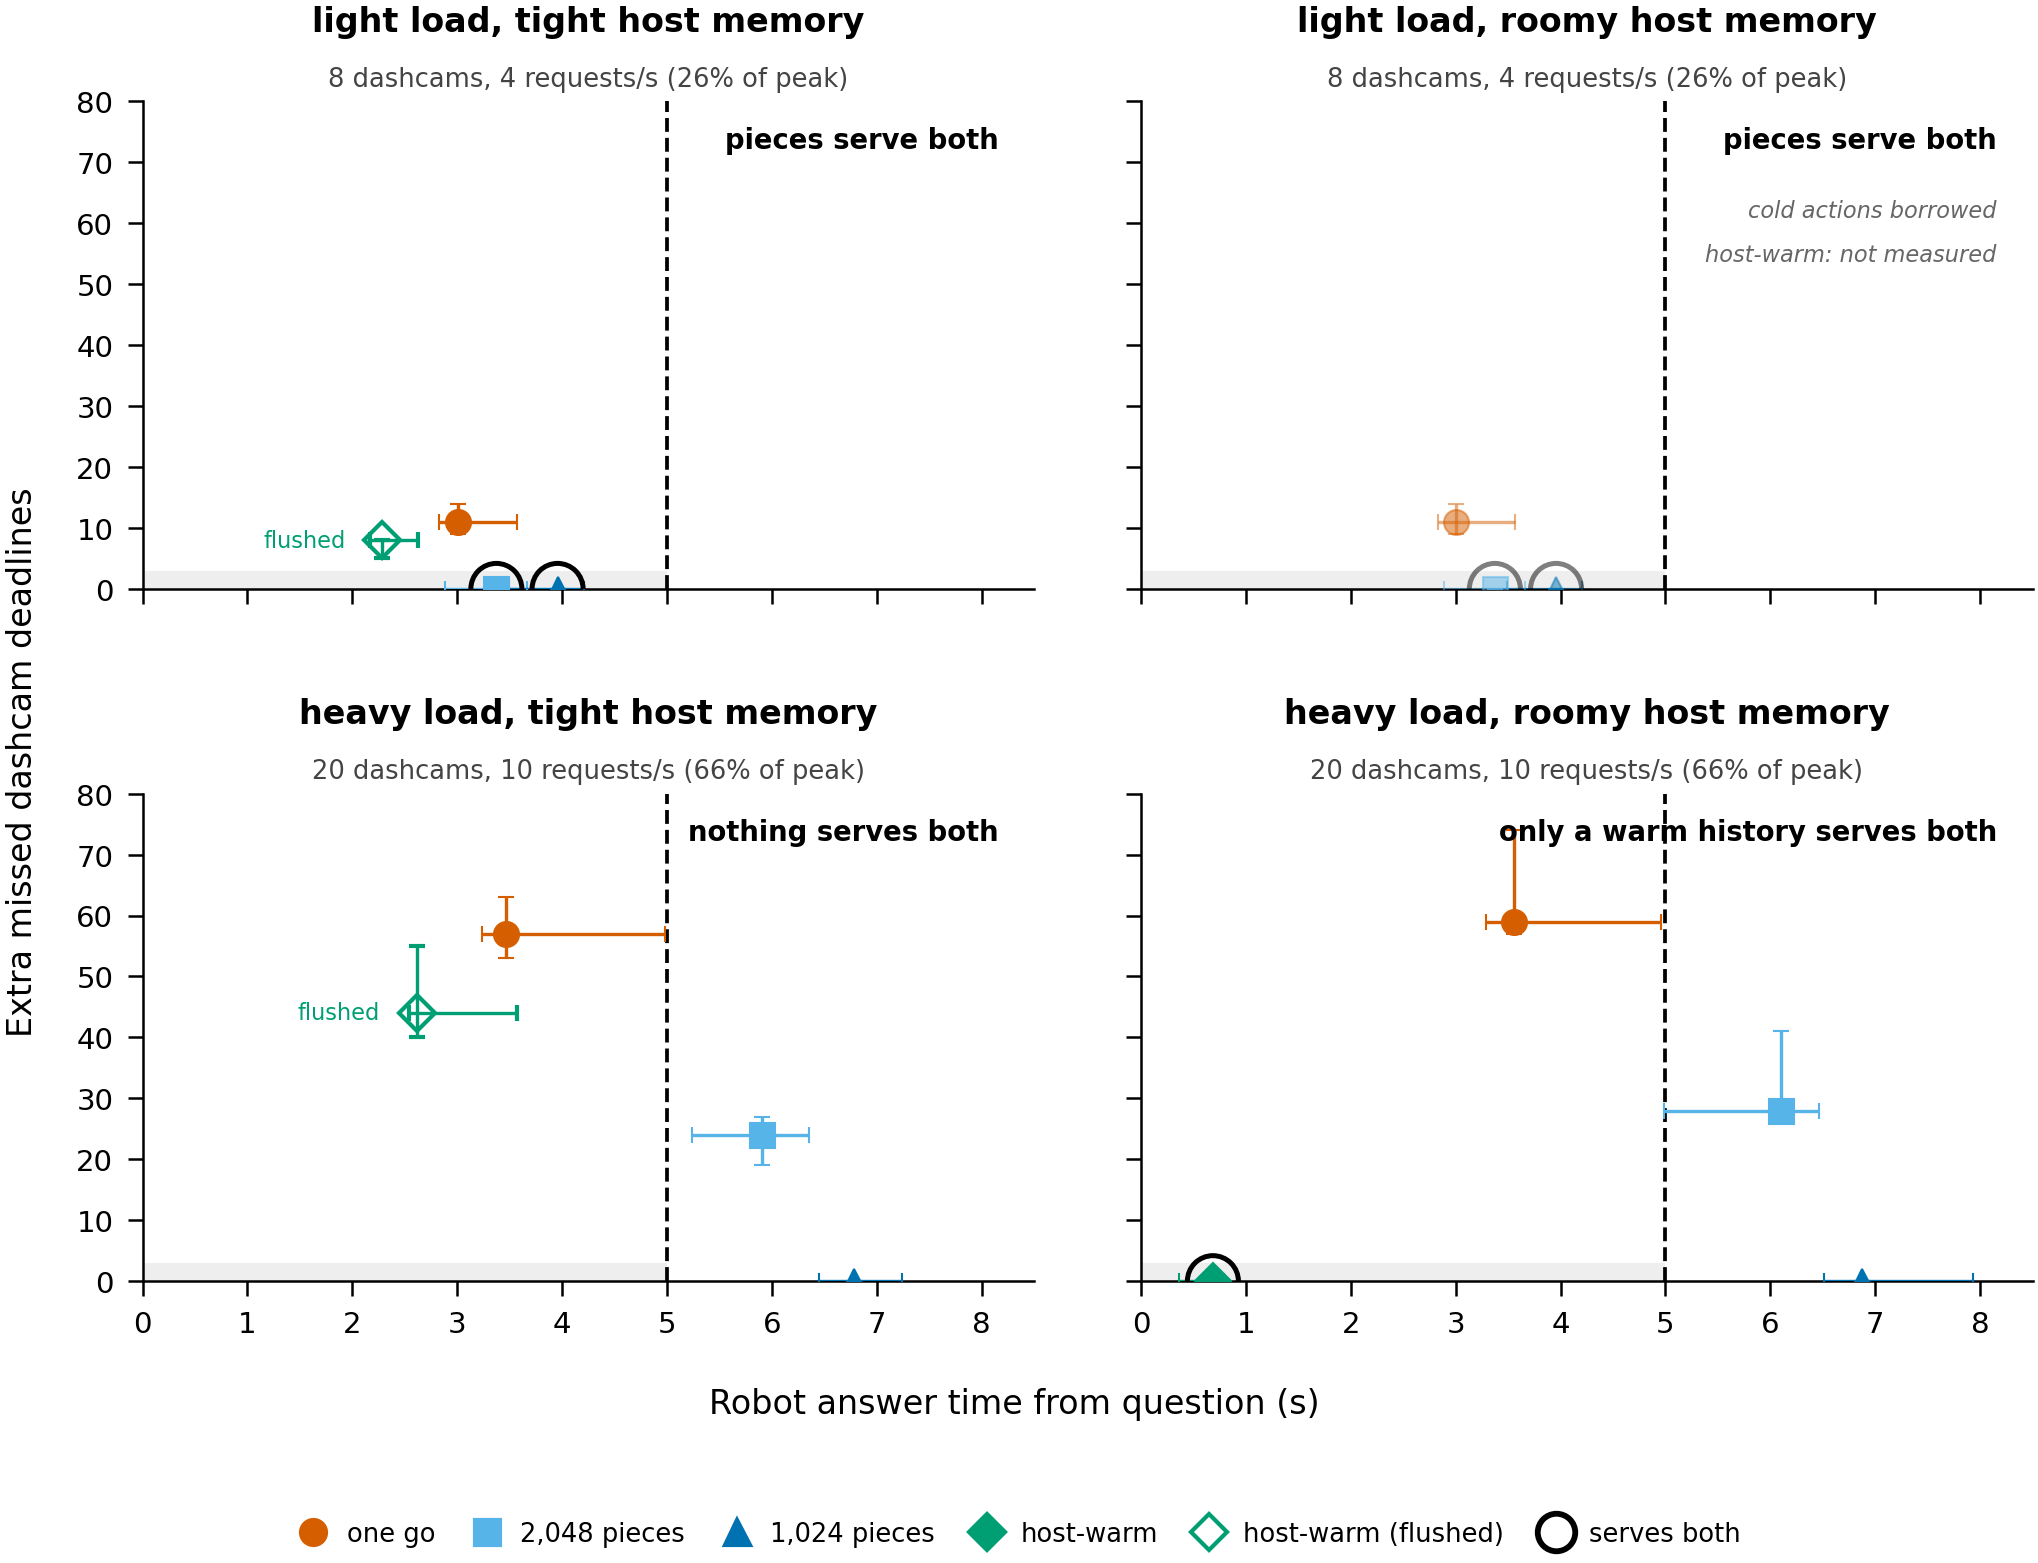
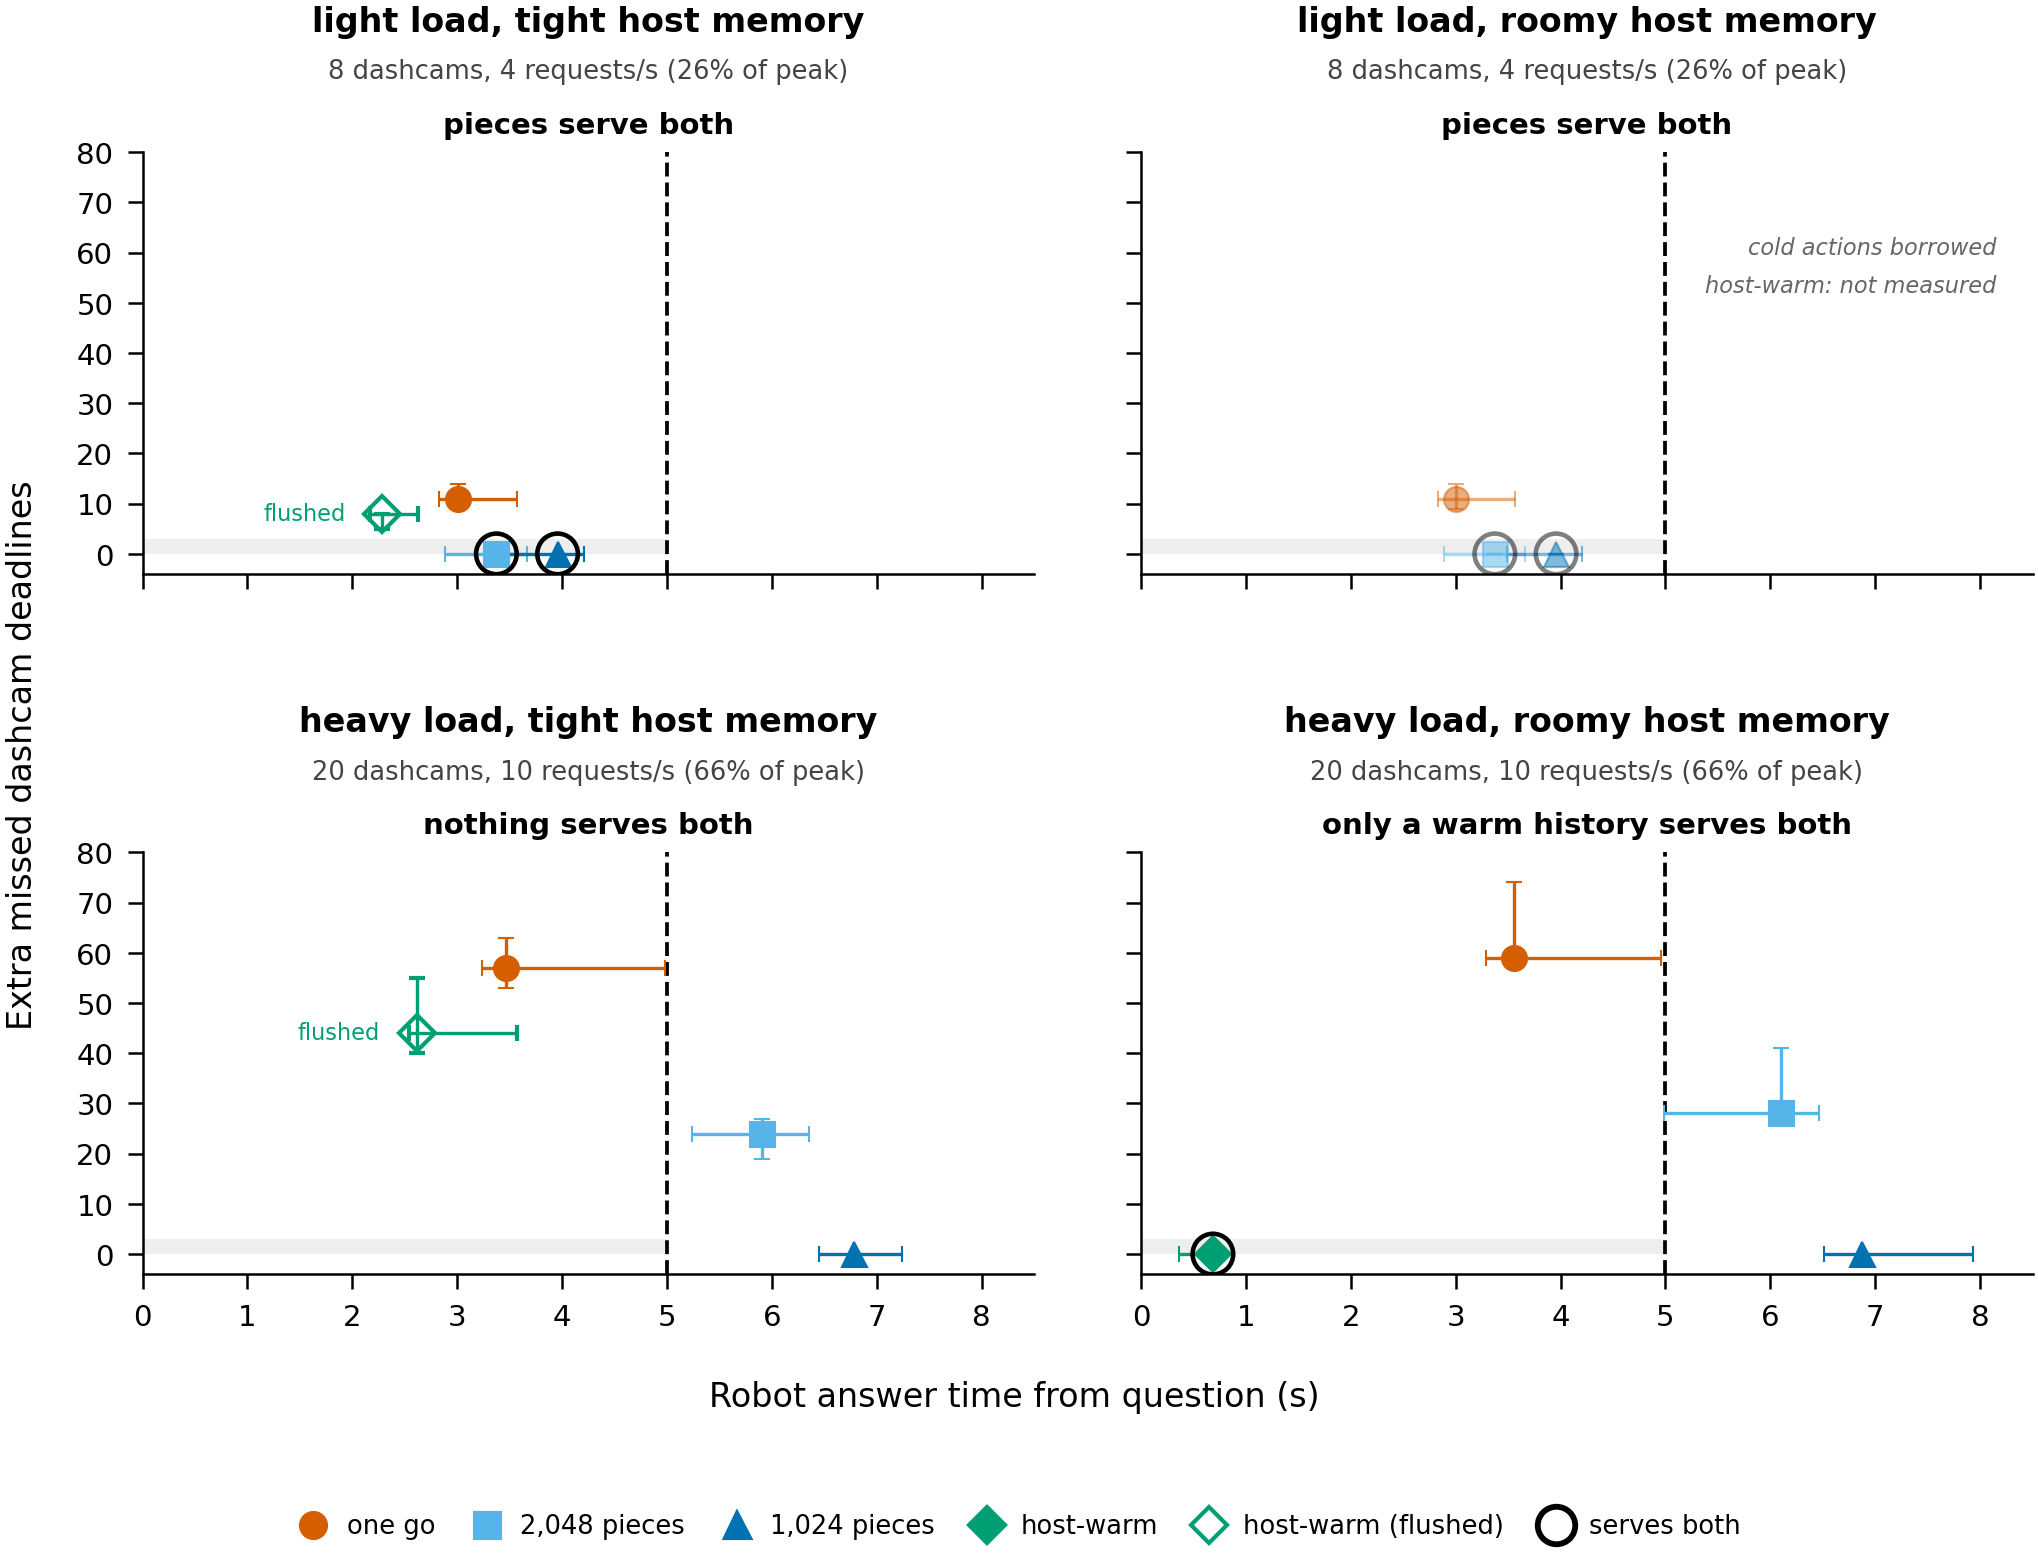
StudyFIG1-motivation

diff --git a/plots/motivation/figM7b_grid.py b/plots/motivation/figM7b_grid.py
@@ -43,7 +43,7 @@ CELLS = {
     "heavy_roomy": dict(title="heavy load, roomy host memory", sub="20 dashcams, 10 requests/s (66% of peak)",
                         verdict="only a warm history serves both"),
 }
-XLO, XHI, YLO, YHI = 0.0, 8.5, 0.0, 80.0
+XLO, XHI, YLO, YHI = 0.0, 8.5, -4.0, 80.0
 TARGET = 5.0        # robot deadline, D71
 EXPECT = {k: v["verdict"] for k, v in CELLS.items()}
 
@@ -105,18 +105,15 @@ def draw_panel(ax, cell, show_region_text=False):
                     fmt=mk, color=c, mfc=mfc, mec=c, ecolor=c,
                     elinewidth=0.8, capsize=2, markersize=6,
                     markeredgewidth=1.0 if hollow else 0.5, alpha=alpha, zorder=3)
-        # bold ring for an action in the good region
+        # bold ring for an action in the good region (small, so adjacent rings do not touch)
         if y == 0 and x < TARGET:
-            ax.scatter([x], [y], s=150, facecolors="none", edgecolors="black",
-                       linewidths=1.2, zorder=5, alpha=alpha)
+            ax.scatter([x], [y], s=95, facecolors="none", edgecolors="black",
+                       linewidths=1.1, zorder=5, alpha=alpha)
         # label a flushed host-warm point directly, to its left (hollow => answered cold)
         if hollow:
             ax.text(x - 0.35, y, "flushed", ha="right", va="center", fontsize=5.4,
                     color=c, zorder=4)
         plotted.append((act, round(x, 4), y, hollow, borrowed))
-    # verdict, top right
-    ax.text(0.96, 0.95, CELLS[cell]["verdict"], transform=ax.transAxes, ha="right", va="top",
-            fontsize=6.6, fontweight="bold", zorder=6)
     # borrowed / not-measured notes
     notes = []
     if any(G[cell][act].get("measured_directly") is False for act, _, _, _ in ACT
@@ -127,13 +124,17 @@ def draw_panel(ax, cell, show_region_text=False):
     for i, nt in enumerate(notes):
         ax.text(0.96, 0.80 - 0.09 * i, nt, transform=ax.transAxes, ha="right", va="top",
                 fontsize=5.4, color="#666666", style="italic", zorder=6)
-    # title (main, then smaller sub line above the axes)
-    ax.text(0.5, 1.13, CELLS[cell]["title"], transform=ax.transAxes, ha="center", va="bottom",
+    # title block above the axes: main, smaller sub line, then the verdict (bold),
+    # so the verdict never overlaps data, whiskers or the deadline line.
+    ax.text(0.5, 1.27, CELLS[cell]["title"], transform=ax.transAxes, ha="center", va="bottom",
             fontsize=8, fontweight="bold")
-    ax.text(0.5, 1.02, CELLS[cell]["sub"], transform=ax.transAxes, ha="center", va="bottom",
+    ax.text(0.5, 1.16, CELLS[cell]["sub"], transform=ax.transAxes, ha="center", va="bottom",
             fontsize=6.2, color="#444444")
+    ax.text(0.5, 1.03, CELLS[cell]["verdict"], transform=ax.transAxes, ha="center", va="bottom",
+            fontsize=7, fontweight="bold")
     ax.set_xlim(XLO, XHI)
     ax.set_ylim(YLO, YHI)
+    ax.set_yticks(list(range(0, 81, 10)))
     return plotted
 
 
@@ -185,7 +186,7 @@ fig.supylabel("Extra missed dashcam deadlines", fontsize=8)
 fig.text(0.5, 0.105, "Robot answer time from question (s)", ha="center", fontsize=8)
 fig.legend(handles=legend_handles(), loc="lower center", ncol=6, fontsize=6.2,
            frameon=False, handletextpad=0.3, columnspacing=1.0, bbox_to_anchor=(0.5, 0.01))
-fig.subplots_adjust(left=0.085, right=0.985, top=0.9, bottom=0.185, wspace=0.12, hspace=0.42)
+fig.subplots_adjust(left=0.085, right=0.985, top=0.865, bottom=0.185, wspace=0.12, hspace=0.66)
 pdf, png = F.save(fig, "figM7b_grid")
 
 # ---------- 1 x 3 measured-only variant -------------------------------------
@@ -196,7 +197,7 @@ fig2.supylabel("Extra missed\ndashcam deadlines", fontsize=8)
 fig2.text(0.54, 0.145, "Robot answer time from question (s)", ha="center", fontsize=8)
 fig2.legend(handles=legend_handles(), loc="lower center", ncol=6, fontsize=5.8,
             frameon=False, handletextpad=0.3, columnspacing=0.9, bbox_to_anchor=(0.5, 0.0))
-fig2.subplots_adjust(left=0.105, right=0.99, top=0.78, bottom=0.30, wspace=0.12)
+fig2.subplots_adjust(left=0.105, right=0.99, top=0.70, bottom=0.30, wspace=0.12)
 pdf2, png2 = F.save(fig2, "figM7b_grid_measured")
 
 # ---------- JSON ------------------------------------------------------------
@@ -205,7 +206,7 @@ payload = {
     "message": "The best way to serve a robot's cold-history question changes with fleet load and host memory, so no fixed rule works.",
     "source": "results/motivation/mot1/mot1_figdata_amend3.json block grid_2x2 (values used exactly, not recomputed)",
     "axes": {"x": "robot answer time from the question (s), shared 0 to 8.5",
-             "y": "extra missed dashcam deadlines vs the no-question control, shared 0 to 80"},
+             "y": "extra missed dashcam deadlines vs the no-question control, shared ylim -4 to 80, ticks 0 to 80"},
     "load": {"light": "8 dashcams, 4 requests/s (26% of peak)",
              "heavy": "20 dashcams, 10 requests/s (66% of peak)"},
     "host": {"tight": "27 GiB", "roomy": "256 GiB"},

diff --git a/figures/motivation/CAPTIONS.md b/figures/motivation/CAPTIONS.md
@@ -121,4 +121,4 @@ over 5 repetitions; the whiskers are the minimum to maximum across the repetitio
 both directions.
 
 ## M7b (figM7b_grid)
-A robot's roughly 11k-token history question arrives at t = 20 s while each dashcam sends one monitoring request every 2 s, and the panels ask which way of serving that question is best as the fleet load (rows: light 8 dashcams, heavy 20) and the host memory (columns: tight 27 GiB, roomy 256 GiB) change, so that no fixed rule wins everywhere. Each point is one action at its median robot answer time from the question (x) and its median extra dashcam deadlines missed over the no-question control (y), with min-to-max whiskers; the dashed line is the robot's 5 s deadline and the shaded band is the good region (robot on time and fleet unharmed). At light load with a tight host the pieces give 0 extra misses and the robot answers at 3.4 s (2,048-token pieces) or 4.0 s (1,024-token pieces), so pieces serve both. At heavy load with a tight host one go costs 57 extra misses, the 1,024-token pieces answer late at 6.8 s, and the host-warm history had been flushed, so nothing serves both. At heavy load with a roomy host the warm history gives 0 extra misses and answers in 0.69 s, so only a warm history serves both. A hollow host-warm marker means the history had been evicted by question time, so it answered cold in practice. The light/roomy cold actions are borrowed from light/tight because host size does not change a cold action (StudyENG1c Part E; amendment 2 and amendment 1 agree within 1.01 to 1.17x), and light/roomy host-warm was not measured. n = 5 paired repetitions per cell; whiskers are min to max.
+A robot's roughly 11k-token history question arrives at t = 20 s while each dashcam sends one monitoring request every 2 s, and the panels ask which way of serving that question is best as the fleet load (rows: light 8 dashcams, heavy 20) and the host memory (columns: tight 27 GiB, roomy 256 GiB) change, so that no fixed rule wins everywhere. Each point is one action at its median robot answer time from the question (x) and its median extra dashcam deadlines missed over the no-question control (y), with min-to-max whiskers; the dashed line is the robot's 5 s deadline and the shaded band is the good region (robot on time and fleet unharmed). At light load with a tight host the pieces give 0 extra misses and the robot answers at 3.4 s (2,048-token pieces) or 4.0 s (1,024-token pieces), so pieces serve both. At heavy load with a tight host one go costs 57 extra misses, the 1,024-token pieces answer late at 6.8 s, and the host-warm history had been flushed, so nothing serves both. At heavy load with a roomy host the warm history gives 0 extra misses and answers in 0.69 s, so only a warm history serves both. A hollow host-warm marker means the history had been evicted by question time, so it answered cold in practice. The light/roomy cold actions are borrowed from light/tight because host size does not change a cold action (StudyENG1c Part E; amendment 2 and amendment 1 agree within 1.01 to 1.17x), and light/roomy host-warm was not measured. The heavy-load one-go whisker reaching 5 s is repetition 1, the first long request after server start (the warm-up StudyENG1c Part E documented); the other four are 3.2 to 3.7 s. n = 5 paired repetitions per cell; whiskers are min to max.
